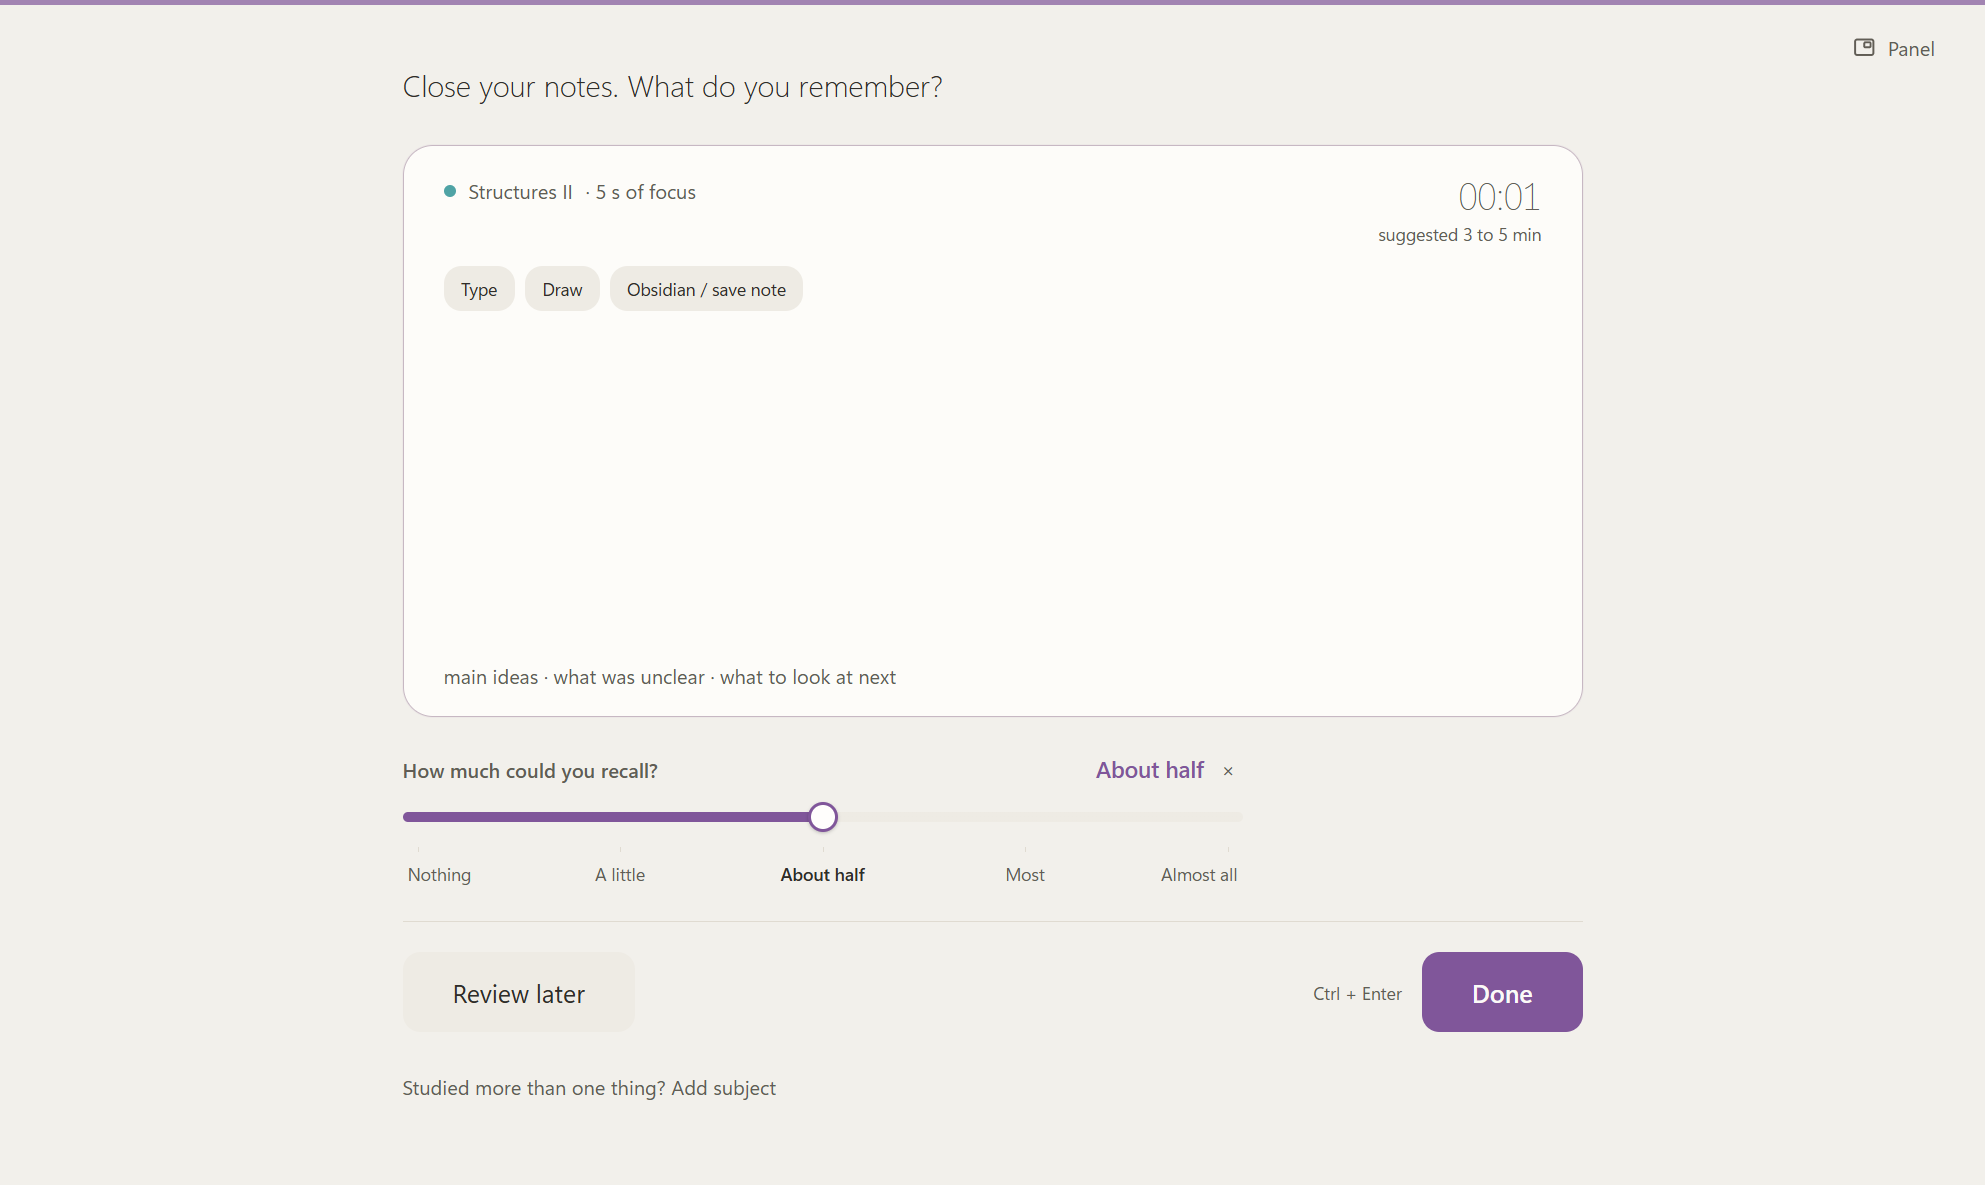
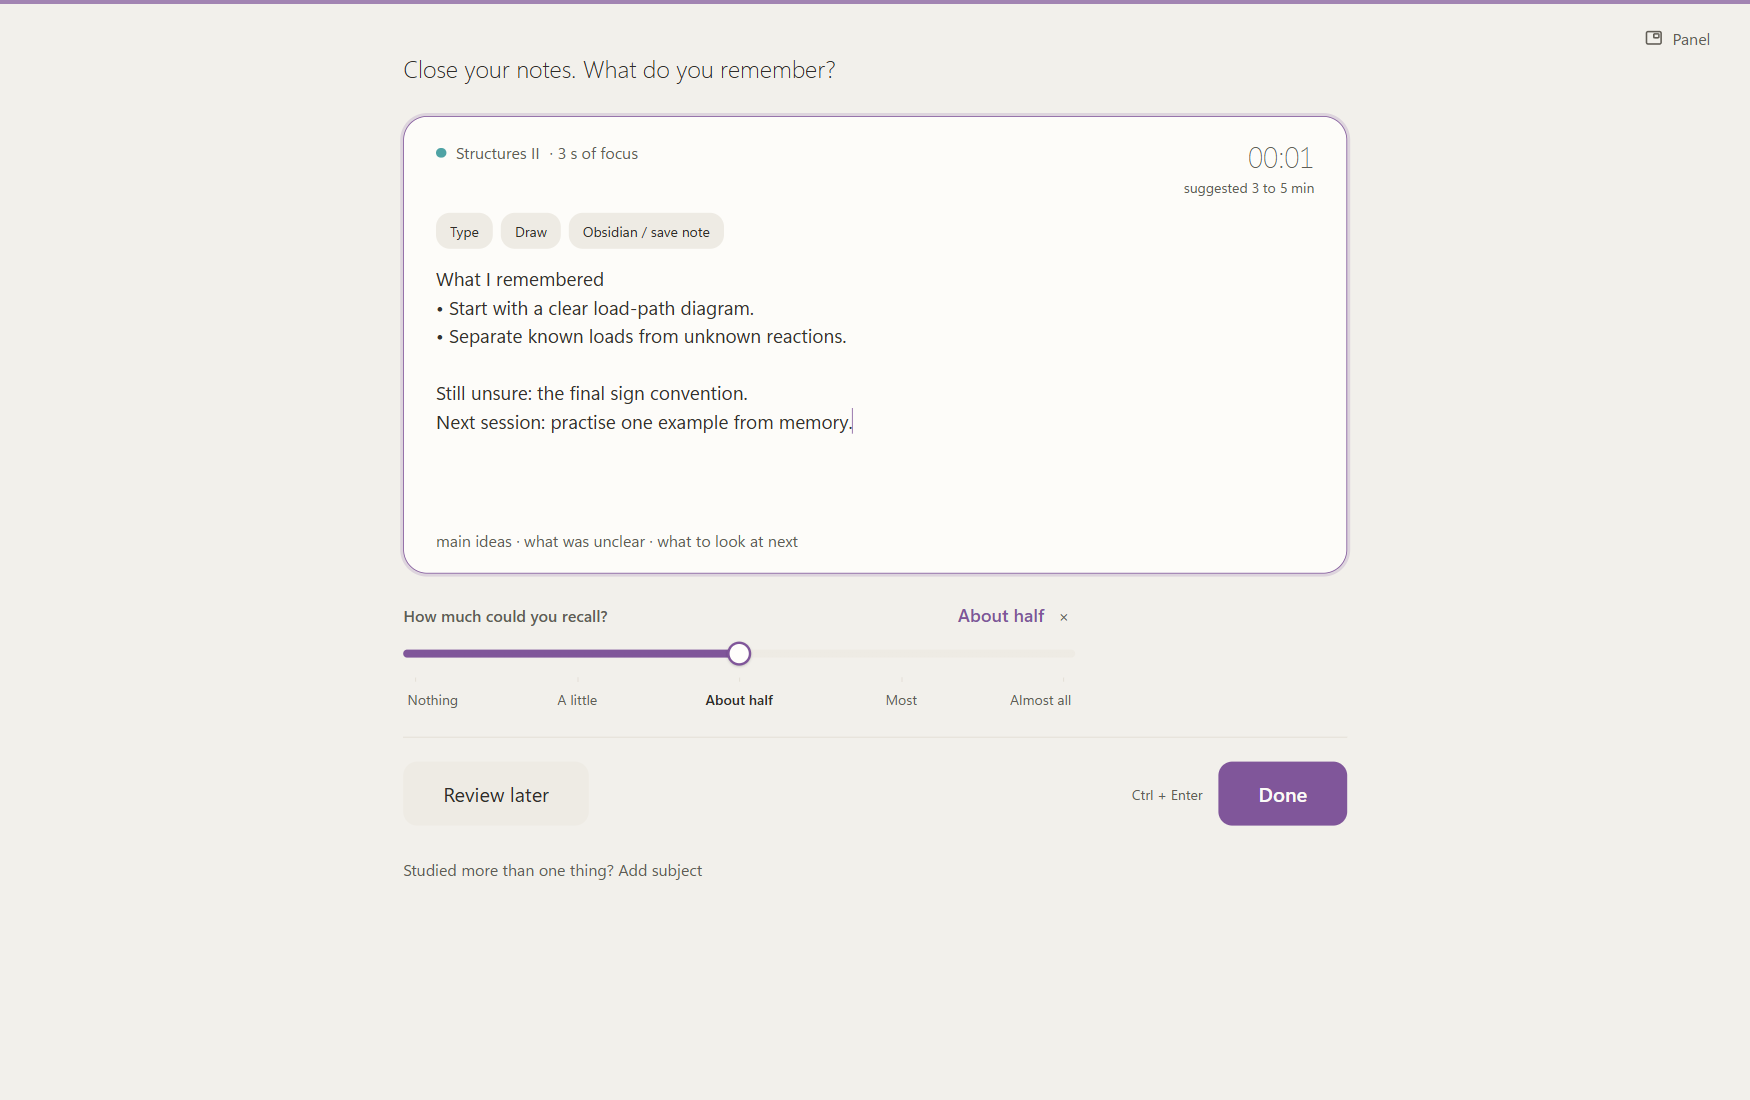
Show the complete Learnalyt experience with genuine feature screenshots

diff --git a/README.md b/README.md
@@ -10,27 +10,75 @@
 
 Choose a subject. Set your aim. Build a study habit you can see.
 
-## Keep your focus close
+## Choose your pace
 
-| Ready when you are | Your timer, always within reach |
+| Flow | Fixed | Adaptive |
+| --- | --- | --- |
+| ![Flow planning](screenshots/mode-flow.png) | ![Fixed planning](screenshots/mode-fixed.png) | ![Adaptive planning from demo history](screenshots/mode-adaptive.png) |
+| Count up. Keep going while you are focused. | Choose a duration and count down. | Get a subject-specific target from recent good sessions. |
+| ![Flow session running](screenshots/session-flow.png) | ![Fixed session running](screenshots/session-fixed.png) | ![Adaptive session running](screenshots/session-adaptive.png) |
+
+Adaptive uses your default until enough qualifying sessions exist. Every mode lets you decide when to finish.
+
+## A complete study session
+
+**Prepare → Focus → Recall → Log → Rest**
+
+Clear distractions, set an aim, then start when you are ready.
+
+![Preparation before the timer starts](screenshots/preparation.png)
+
+| Recall what you learned | Record how it went | Take a break |
+| --- | --- | --- |
+| ![Filled recall page with fictional study notes](screenshots/recall.png) | ![Configurable session logging](screenshots/session-log.png) | ![Rest planning](screenshots/rest.png) |
+| Write or draw from memory. | Choose the questions you want to track. | Rest, then continue or finish your sitting. |
+
+## Keep your controls close
+
+| Before you start | While you work |
 | --- | --- |
-| ![Floating panel before starting a session](screenshots/floating-ready.png) | ![Floating timer during a real demo session](screenshots/floating-timer.png) |
+| ![Floating ready panel](screenshots/floating-ready.png) | ![Running floating timer](screenshots/floating-timer.png) |
 
-Start, mark distractions, switch subjects and finish from the floating panel.
+Mark distractions, switch subjects and park thoughts without leaving your work.
 
-![Preparation window before the study timer starts](screenshots/preparation.png)
+## Turn records into useful patterns
 
-Clear distractions before you begin. Personal checks appear as Learnalyt learns from your records.
+![Personal study insights](screenshots/insights.png)
 
-## See what helps you study
+| Your question | What to explore |
+| --- | --- |
+| When do I report better focus? | Compare start times before planning your harder work. |
+| Which study conditions suit me? | Compare locations, sound, sleep and other logged conditions. |
+| What interrupts my sessions? | Review distraction reasons, lost time and uninterrupted stretches. |
+| Am I building a routine? | Follow weekly time, subject progress and the yearly heatmap. |
+| What should I try next? | Pick one change, save an experiment and compare later sessions. |
 
-![Personal study insights in Learnalyt](screenshots/insights.png)
+| Conditions and outcomes | Time patterns |
+| --- | --- |
+| ![Condition comparisons using fictional ratings](screenshots/stats-conditions.png) | ![Focus ratings by time and day](screenshots/stats-timing.png) |
 
-- **Focus your way:** Flow, Fixed or Adaptive sessions.
-- **Remember more deliberately:** recall with writing and drawing.
-- **Find your patterns:** focus, recall, study conditions and weekly progress.
-- **Keep it personal:** local records, optional reminders, light and dark themes.
+*Patterns reflect your recorded ratings, not proof of cause.*
 
-*Real app screenshots with fictional data. Insights reflect your recorded ratings.*
+## Return to what you learned
+
+Reopen a session's timeline, recall and saved notes in History. Find unfinished work or something worth reviewing.
+
+<img src="screenshots/history-notes.png" alt="History session with its recall and saved note" width="820">
+
+## Save notes to Obsidian
+
+Send text and drawings to a chosen Markdown note and heading. A local copy stays in Learnalyt.
+
+<img src="screenshots/obsidian.png" alt="A note successfully saved to the fictional Demo Vault" width="640">
+
+## Make it yours
+
+- Organize subjects, resources and progress in **Library**.
+- Set optional daily or personal study reminders.
+- Choose light/dark themes, colours, fonts and interface sizes.
+- Back up and restore your local study records.
+- Export reports as PNG, Markdown or PDF.
+
+*All screenshots are real app captures with fictional demo data. The Obsidian example uses an isolated Demo Vault.*
 
 [Install and get started](USER_GUIDE.md#start-studying) · [Beta details](RELEASE_NOTES.md) · [Privacy](PRIVACY.md)

diff --git a/USER_GUIDE.md b/USER_GUIDE.md
@@ -42,6 +42,10 @@ Select a subject on Home, choose a mode and target, and optionally enter a small
 | Fixed | Countdown planning around a chosen target |
 | Adaptive | Uses qualifying previous study to suggest a target; the UI distinguishes actual samples from example dots/defaults |
 
+| Flow planning | Fixed planning | Adaptive planning |
+| --- | --- | --- |
+| ![Flow](screenshots/mode-flow.png) | ![Fixed](screenshots/mode-fixed.png) | ![Adaptive](screenshots/mode-adaptive.png) |
+
 Adaptive is a planning aid, not a prediction of learning quality. The target is not a forced end to study. You control when to finish.
 
 Press **Start**. With preparation enabled, a separate preparation sheet opens before time is recorded.
@@ -104,6 +108,8 @@ Next comes planned rest. Record what actually happened or skip it. Planned rest 
 
 ## History and recovery
 
+![Fictional session history with recall and saved notes](screenshots/history-notes.png)
+
 ![History showing fictional sessions and their subject/time details](screenshots/history.png)
 
 *Search and filters narrow records; review markers help find unfinished follow-up.*
@@ -155,6 +161,8 @@ In **Report**, export PNG, Markdown or PDF. Preview the scope and inspect for pr
 ## Notes and Obsidian
 
 In **Library → subject → Notes**, choose **Write a note**, or open **Save / send notes** from recall. Type/draw, choose a destination and save. **Save locally** keeps content in Learnalyt. External sending saves locally first; failure leaves a local note for retry. Notes are not automatically sent to a cloud service. Notion synchronization has been removed; old local notes remain.
+
+![Successful save to an isolated Demo Vault](screenshots/obsidian.png)
 
 For Obsidian:
 
